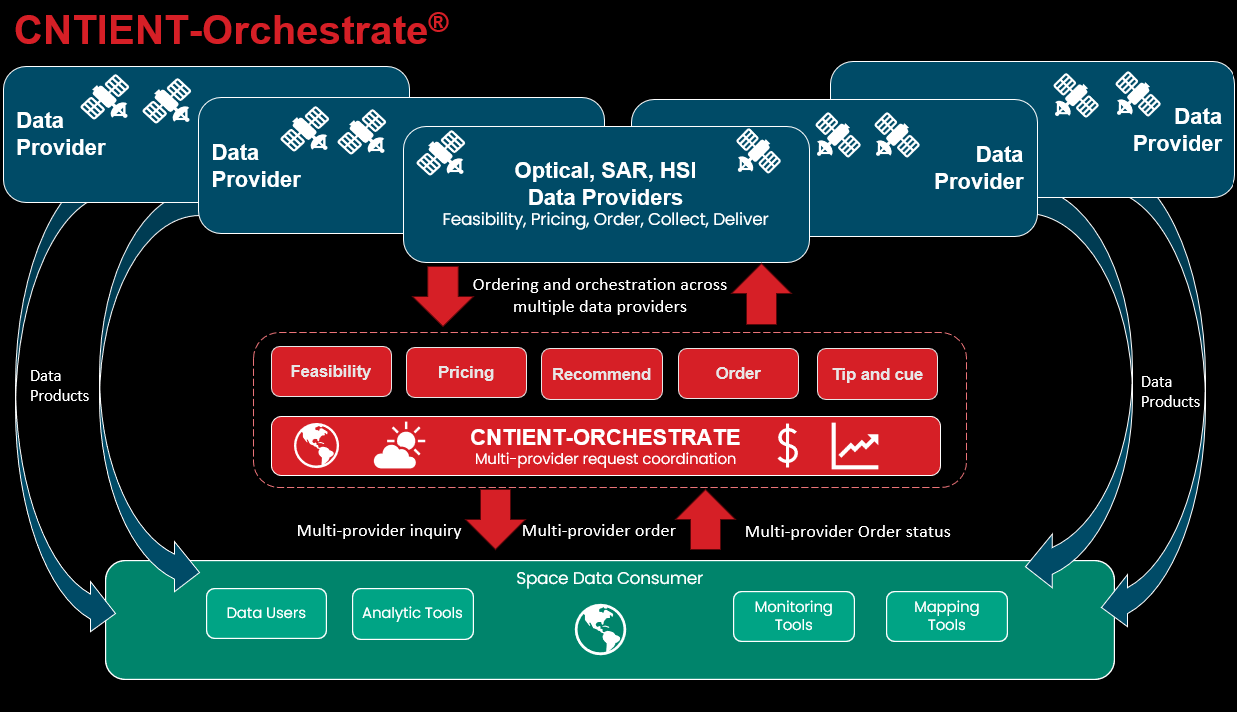
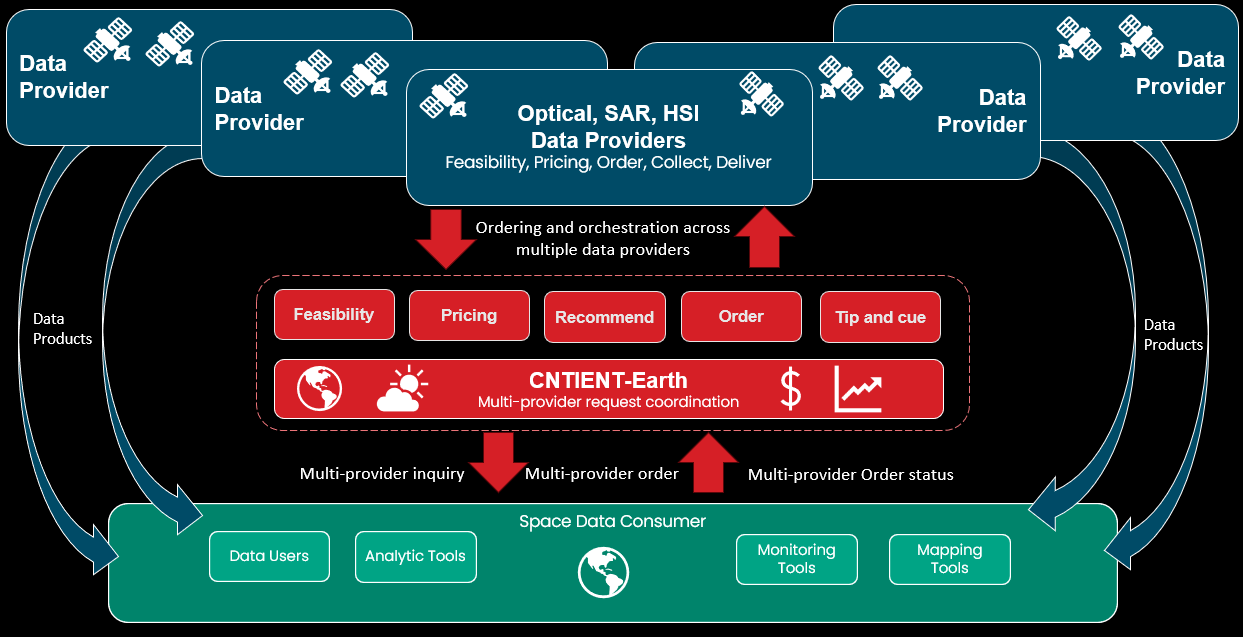
switch naming to cntient earth

diff --git a/layouts/partials/menu.html b/layouts/partials/menu.html
@@ -18,8 +18,8 @@
             <div class="dropdown">
               <button class="dropbtn">Products</button>
               <div class="dropdown-content">
-                <a href="/cntient-orchestrate/">CNTIENT Orchestrate</a>
-                <a href="/cntient-optimize/">CNTIENT Optimize</a>
+                <a href="/cntient-earth/">CNTIENT-Earth</a>
+                <a href="/cntient-optimize/">CNTIENT-Optimize</a>
               </div>
             </div>
           </li>
@@ -91,7 +91,7 @@
                 class="menu-item menu-item-type-post_type menu-item-object-page menu-item-785 mob-nav-item"
               >
                 <h4><strong>Products</strong></h4>
-                <a href="/cntient-orchestrate/" class="mob-nav-link">CNTIENT-Orchestrate</a>
+                <a href="/cntient-earth/" class="mob-nav-link">CNTIENT-Earth</a>
                 <br><br>
                 <a href="/cntient-optimize/" class="mob-nav-link">CNTIENT-Optimize</a>
               </li>

diff --git a/content/cntient-earth.md b/content/cntient-earth.md
@@ -1,9 +1,9 @@
 ---
-title: CNTIENT-Orchestrate for AI-Powered Satellite Data Tasking
+title: CNTIENT-Earth for AI-Powered Satellite Data Tasking
 date: 2024-05-02T00:00:00-06:00
 draft: false
 bodyclass: page-template page-template-layout page-template-layout-php page page-id-226
-Description: CNTIENT-Orchestrate unlocks AI-powered decision-making for highly complex & dynamic satellite imagery tasking from one or multiple data providers.
+Description: CNTIENT-Earth unlocks AI-powered decision-making for highly complex & dynamic satellite imagery tasking from one or multiple data providers.
 aliases:
 - /product/
 ---
@@ -24,7 +24,7 @@ aliases:
       class="row h-100 align-items-center text-center justify-content-center"
     >
       <div class="col-lg-10 col-md-12 col-sm-12">
-                  <h3 class="wow">MEET CNTIENT-ORCHESTRATE™</h3>
+                  <h3 class="wow">MEET CNTIENT-EARTH™</h3>
                         <h2 class="wow">Intelligent satellite imaging feasibilities, tasking, and order management</h2>
                         <p class="wow mb-3">
                           Intelligently plan and order new remote sensing tasking across multiple commercial satellite data providers to confidently meet mission objectives.
@@ -47,7 +47,7 @@ aliases:
             <div class="col-md-7">
                 <h3 class="wow">AI-Powered Satellite Tasking Planning</h3>
                 <p class="wow">
-                  With CNTIENT-Orchestrate, unlock AI-powered intelligence to understand the capabilities of satellite data providers and place orders to maximize your chance of successful data acquisition. Remove the cognitive burden of requesting and evaluating the complex and diverse interactions with data providers for feasibility assessment and order responsiveness.
+                  With CNTIENT-Earth, unlock AI-powered intelligence to understand the capabilities of satellite data providers and place orders to maximize your chance of successful data acquisition. Remove the cognitive burden of requesting and evaluating the complex and diverse interactions with data providers for feasibility assessment and order responsiveness.
                   <br><br>
                   Scales to manage highly complex and dynamic order scenarios with demanding mission requirements like ongoing site monitoring and tip & cue. Analytics ready to support feature extraction, object detection, and chain of custody systems.
                 </p>
@@ -91,7 +91,7 @@ aliases:
           <div>
                         <h3 class="small-title wow">A MODERN SOLUTION FOR MODERN NEEDS</h3>
                         <p class="paragraph mb_38 wow">
-                          Current processes for planning and ordering new satellite data tasking are outdated and not viable for the future: they are too slow, unreliable, manual, and do not scale to meet the needs of both the data users and the satellite data providers. CNTIENT-Orchestrate is an intelligent, automated order feasibility and order management tool that automates the interface between data users and satellite data providers - with benefits to both in terms of confidence, reliability and predictability of order fulfillment.
+                          Current processes for planning and ordering new satellite data tasking are outdated and not viable for the future: they are too slow, unreliable, manual, and do not scale to meet the needs of both the data users and the satellite data providers. CNTIENT-Earth is an intelligent, automated order feasibility and order management tool that automates the interface between data users and satellite data providers - with benefits to both in terms of confidence, reliability and predictability of order fulfillment.
                         </p>
                         <ul class="listing wow">
                           <li><span>
@@ -126,7 +126,7 @@ aliases:
 <!-- new frontier section start -->
 <section id="iframe_block_5771a6589d03c1d3e2c966e42863d8c9" class=" new-frontier Difference" >
   <div class="container">
-          <h2 class="title">THE CNTIENT-ORCHESTRATE DIFFERENCE</h2>
+          <h2 class="title">THE CNTIENT-EARTH DIFFERENCE</h2>
     <div class="row justify-content-center num-counter">
         <div class="col-lg-4 col-md-6 col-sm-12">
             <div class="single-counter wow">
@@ -205,7 +205,7 @@ aliases:
     <img decoding="async" src="/wp-content/uploads/2023/09/vector2-1.svg" class="vector1" alt="" title="vector2 (1)" />
     <div class="container">
         <h2 class="title wow">
-          HOW DOES CNTIENT-ORCHESTRATE AUTOMATE OPERATIONS?
+          HOW DOES CNTIENT-EARTH AUTOMATE OPERATIONS?
         </h2>
             <img decoding="async" src="/wp-content/uploads/2023/09/vector1.svg" class="vector2" alt="" title="vector1" />
                       <div class="row left">
@@ -243,7 +243,7 @@ aliases:
                   <img decoding="async" src="/wp-content/uploads/2023/09/2-2.png" alt="" title="2 (2)" />
                 </div>
                                                 <h3>
-                                                  CNTIENT-Orchestrate selects data providers capable of fulfilling the imagery request and our proprietary AI cognition engine provides an unbiased, intelligent estimate of the collection feasibility and estimated price based on existing contracts or list pricing.
+                                                  CNTIENT-Earth selects data providers capable of fulfilling the imagery request and our proprietary AI cognition engine provides an unbiased, intelligent estimate of the collection feasibility and estimated price based on existing contracts or list pricing.
                                                 </h3>
                             </div>
           </div>
@@ -333,7 +333,7 @@ aliases:
                 ORDERING NEW TASKING OF SATELLITE IMAGERY DOESN’T HAVE TO BE HARD
               </h2>
               <p class="paragraph text-center mb_48 wow">
-                The process of tasking commercial remote sensing satellites in today’s diverse market of providers is is a complex problem. Complexity exists in multiple steps of the process including; matching requirements to available sensor capabilities, understanding feasibility of collection in the required timeline, understanding impacts of weather and other collection planning variables, and coordinating multiple commercial providers with different methods of communication. Cognitive Space’s enterprise SaaS solution, CNTIENT-Orchestrate, was specifically developed to address the complexity and uncertainty of ordering new remote sensing tasking across multiple commercial satellite data providers. CNTIENT-Orchestrate enables new image tasking requests to be quickly, effectively and intelligently considered for fulfillment across all available commercial satellites - to reduce friction and achieve mission success quickly and confidently.
+                The process of tasking commercial remote sensing satellites in today’s diverse market of providers is is a complex problem. Complexity exists in multiple steps of the process including; matching requirements to available sensor capabilities, understanding feasibility of collection in the required timeline, understanding impacts of weather and other collection planning variables, and coordinating multiple commercial providers with different methods of communication. Cognitive Space’s enterprise SaaS solution, CNTIENT-Earth, was specifically developed to address the complexity and uncertainty of ordering new remote sensing tasking across multiple commercial satellite data providers. CNTIENT-Earth enables new image tasking requests to be quickly, effectively and intelligently considered for fulfillment across all available commercial satellites - to reduce friction and achieve mission success quickly and confidently.
               </p>
               </div>
                 <div class="col-md-12 col-sm-12">
